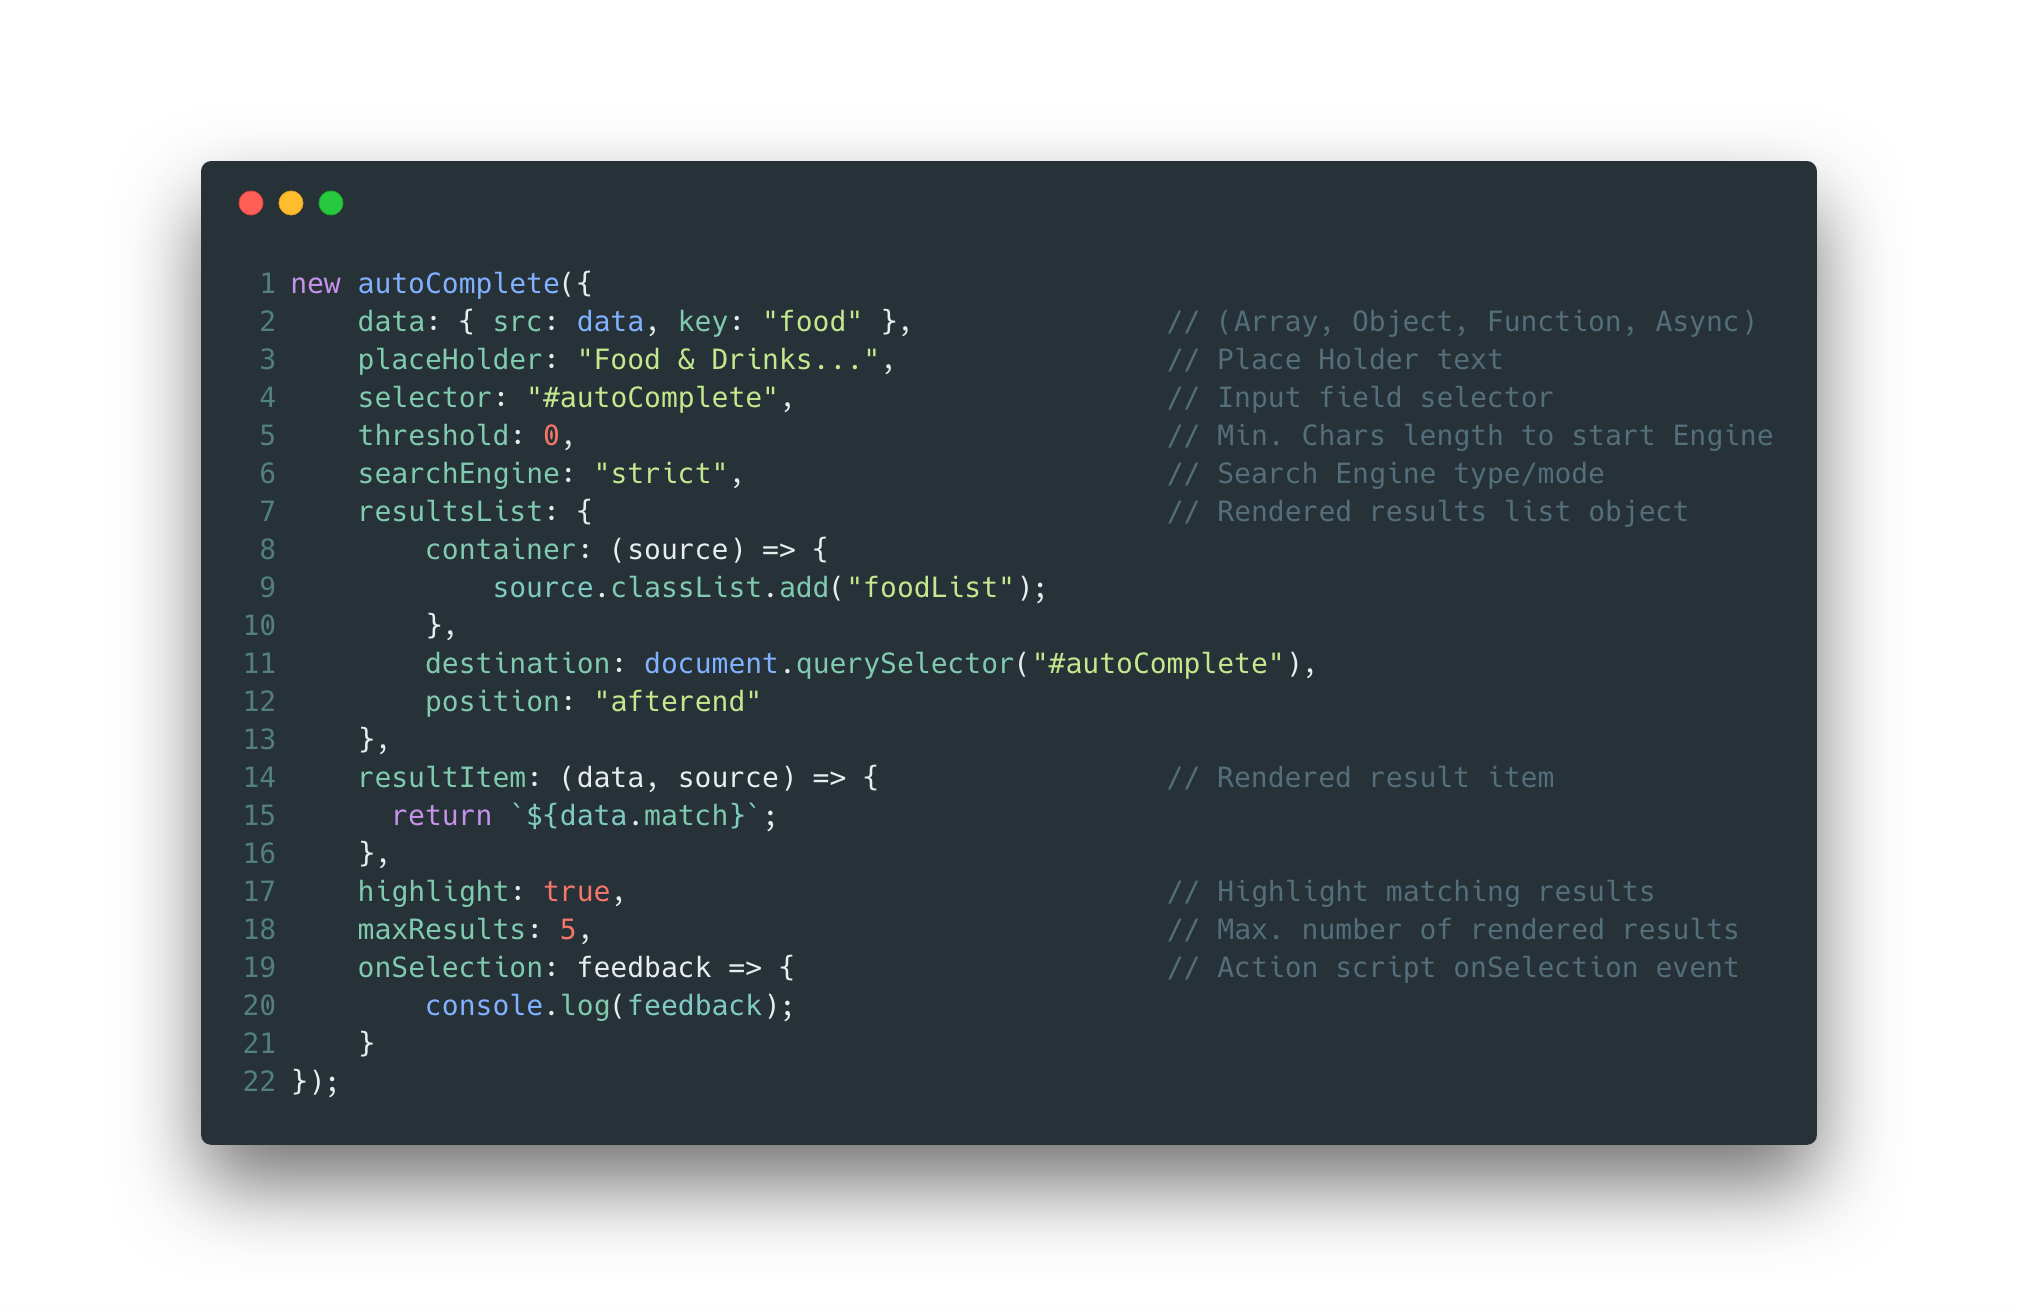
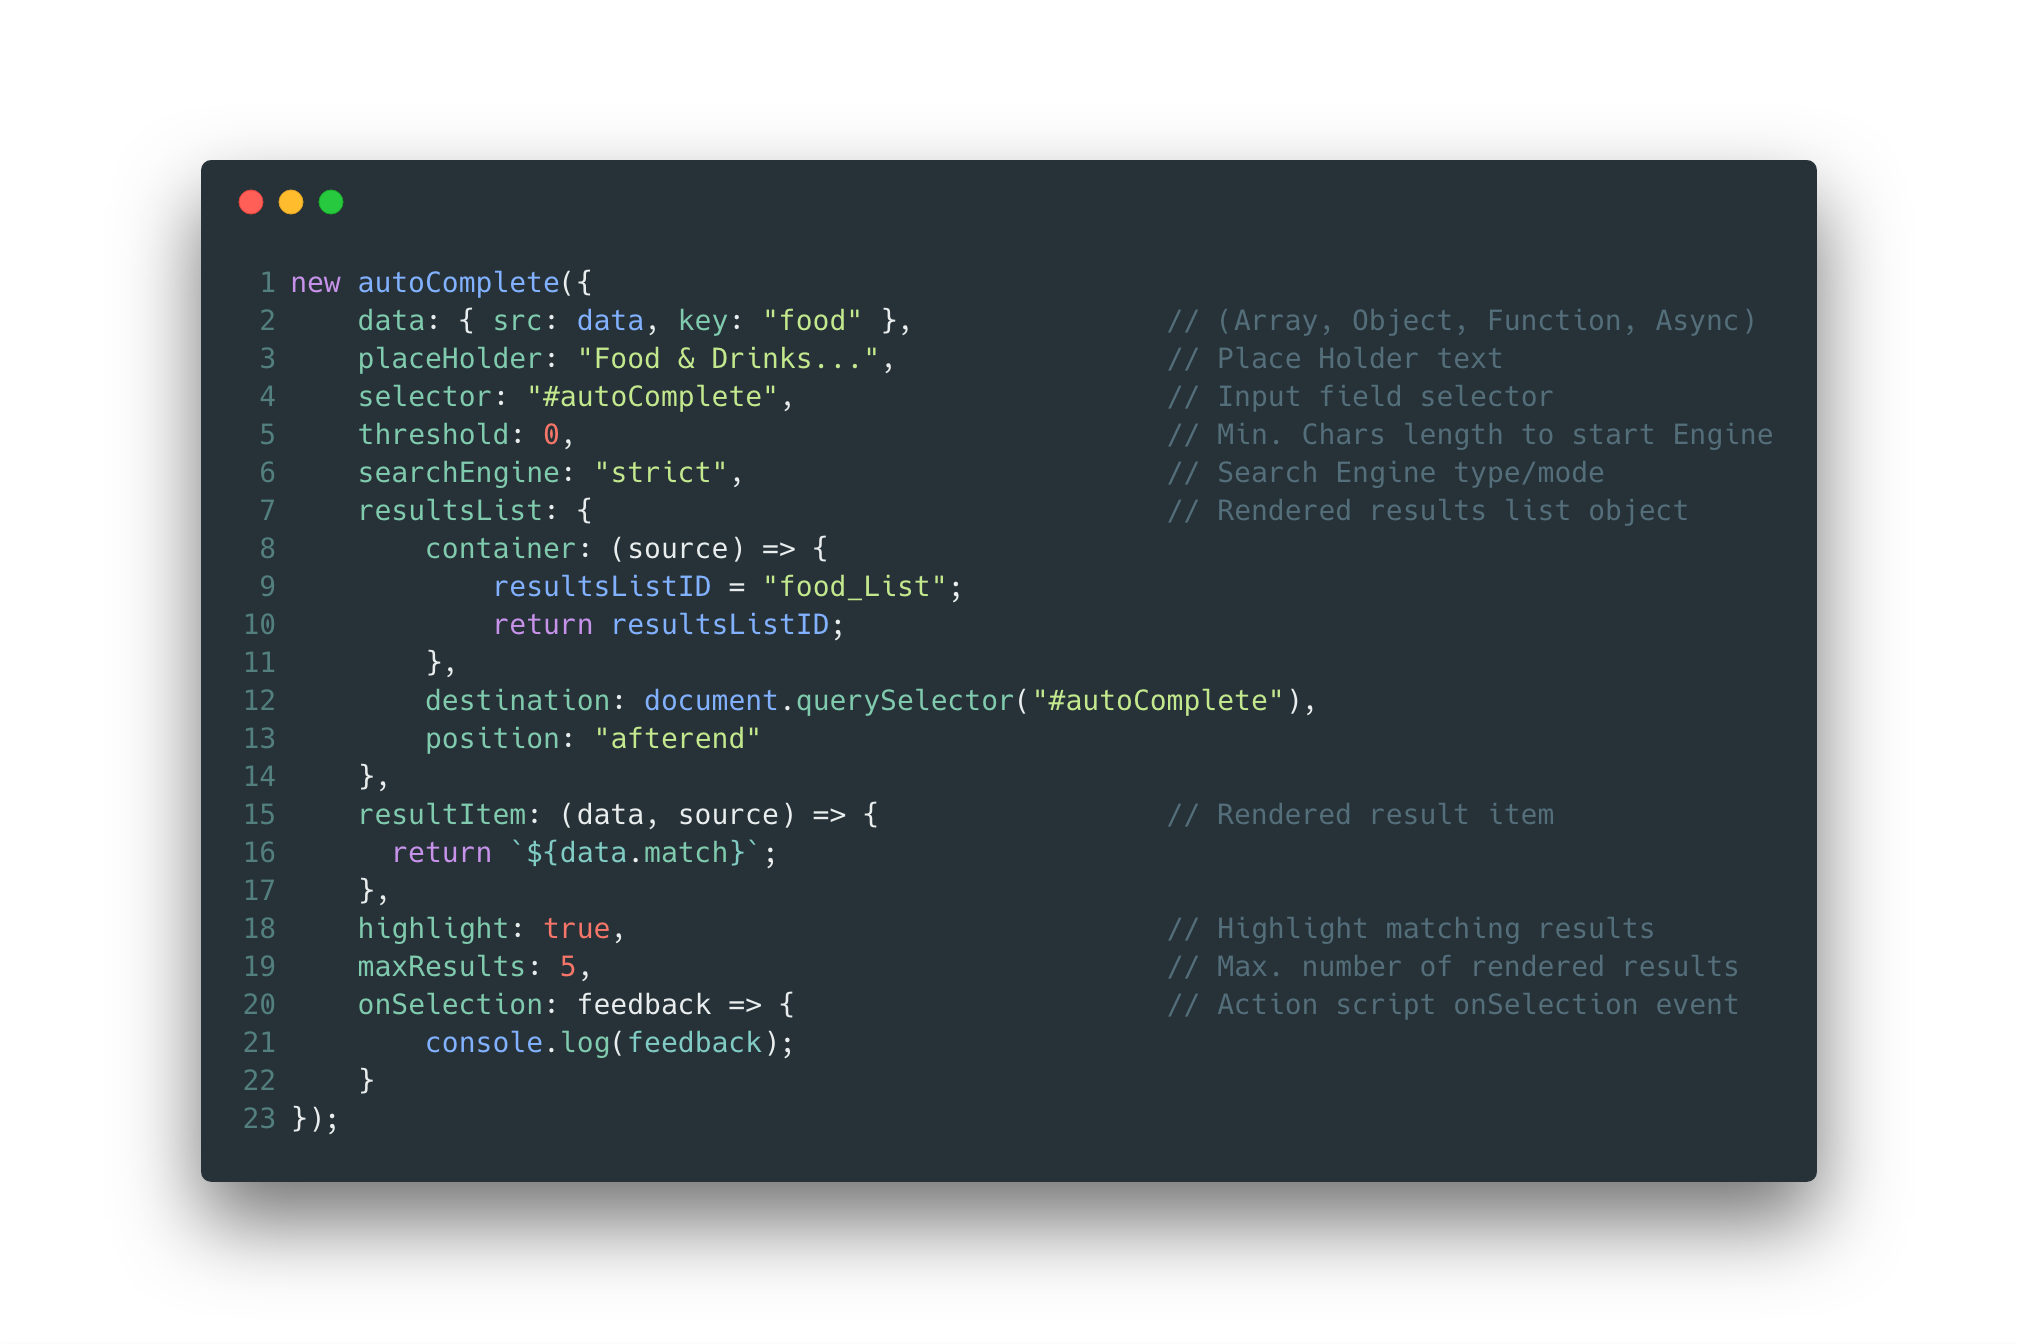
Documentation Update

diff --git a/src/views/autoCompleteView.js b/src/views/autoCompleteView.js
@@ -79,7 +79,8 @@ const getSelection = (field, callback, resultsValues, dataKey) => {
 						results: resultsValues.map(record => record.source),
 						selection: resultsValues.find(value => {
 							const resValue = value.source[dataKey] || value.source;
-							return resValue === event.target.closest(`.${select.result}`).getAttribute(dataAttribute);
+							return resValue === event.target.closest(`.${select.result}`)
+								.getAttribute(dataAttribute);
 						}).source
 					});
 					// Clear Results after selection is made

diff --git a/docs/README.md b/docs/README.md
@@ -147,7 +147,8 @@ new autoComplete({
 	searchEngine: "strict",						 // Search Engine type/mode
 	resultsList: {							  	// Rendered results Container, Destination & Position
 		container: (source) => {
-			source.classList.add("foodList");
+			resultsListID = "food_List";
+			return resultsListID;
 		},
 		destination: document.querySelector("#autoComplete"),
 		position: "afterend"
@@ -174,7 +175,7 @@ new autoComplete({
 | `selector`     | Input field selector                                             | **-** `String` `id`/`class` <br>**OR**<br> **-** `Function` ( ) =>  `document.querySelector("")`                                                                                                                                                                                                                       | `"#autoComplete"`                                                                                          |
 | `threshold`    | Minimum characters length before engine starts rendering results | `Number`                                                                                                                                                                                                                                                                                                               | `0`                                                                                                        |
 | `searchEngine` | Search Engine Type/Mode                                          | **-** `"strict"` lowerCase string<br>**OR**<br>**-** `"loose"` lowerCase string                                                                                                                                                                                                                                        | `"strict"`                                                                                                 |
-| `resultsList`  | Rendered results list destination & position                     | **-** `Object` with 3 methods<br> 1- Container: <br> `Function` (source) => `{}`<br> 2- destination: `document.querySelector("#div")`<br> 3- position:<br> `"beforebegin"`, `"afterbegin"`, `"beforeend"`, `"afterend"` lowerCase string <br>**OR**<br>**-** `Function` ( ) => `{destination: "...", position: "..."}` | `{container: (source) => { }, destination: document.querySelector("#autoComplete"), position: "afterend"}` |
+| `resultsList`  | Rendered results list destination & position                     | **-** `Object` with 3 methods<br> 1- Container: <br> `Function` (source) => `id`<br> 2- destination: `document.querySelector("#div")`<br> 3- position:<br> `"beforebegin"`, `"afterbegin"`, `"beforeend"`, `"afterend"` lowerCase string <br>**OR**<br>**-** `Function` ( ) => `{destination: "...", position: "..."}` | `{container: (source) => { }, destination: document.querySelector("#autoComplete"), position: "afterend"}` |
 | `resultItem`   | Rendered result Item                                             | **-** `Function` (data, source) => `String` <br> **-** `data.match` has to be used for **Highlighted** result                                                                                                                                                                                                          | `data.match`                                                                                               |
 | `highlight`    | Highlight matching results                                       | `Boolean`                                                                                                                                                                                                                                                                                                              | `false`                                                                                                    |
 | `maxResults`   | Maximum number of displayed results                              | `Number`                                                                                                                                                                                                                                                                                                               | `5`                                                                                                        |
